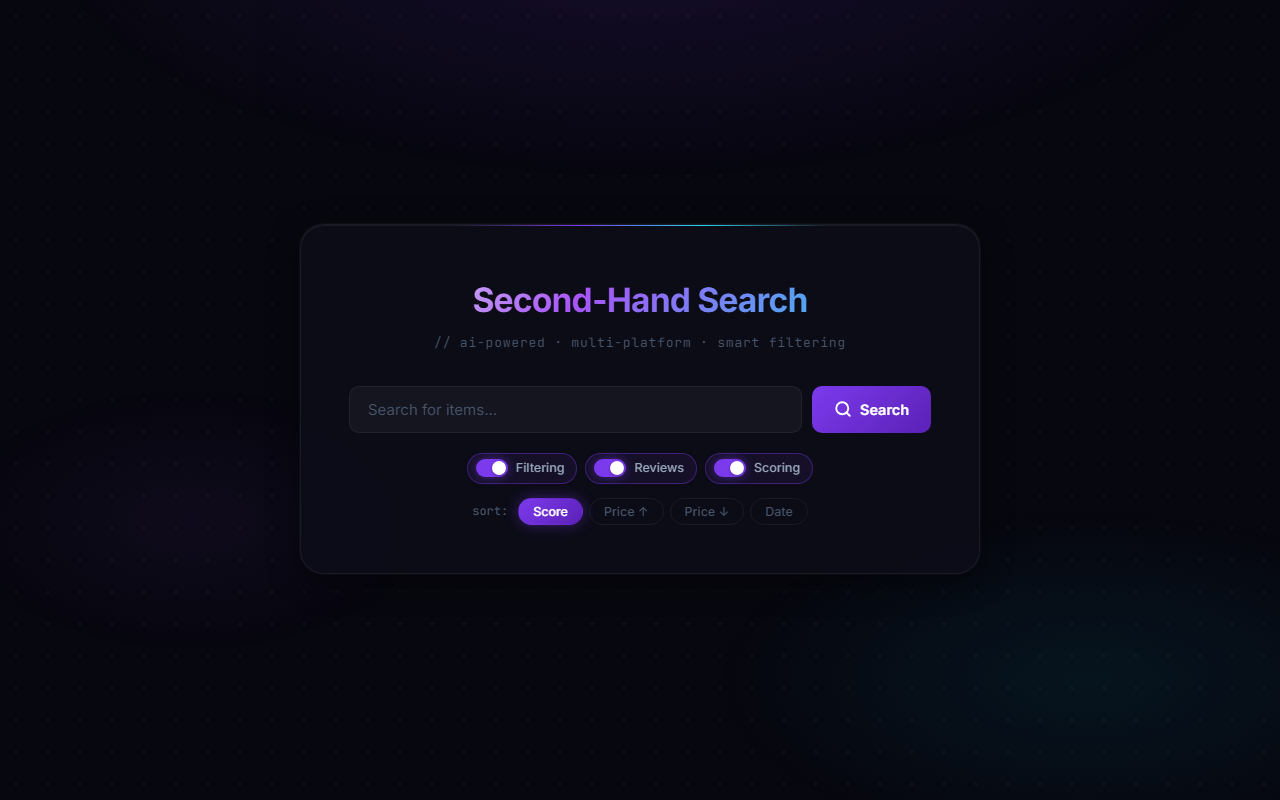
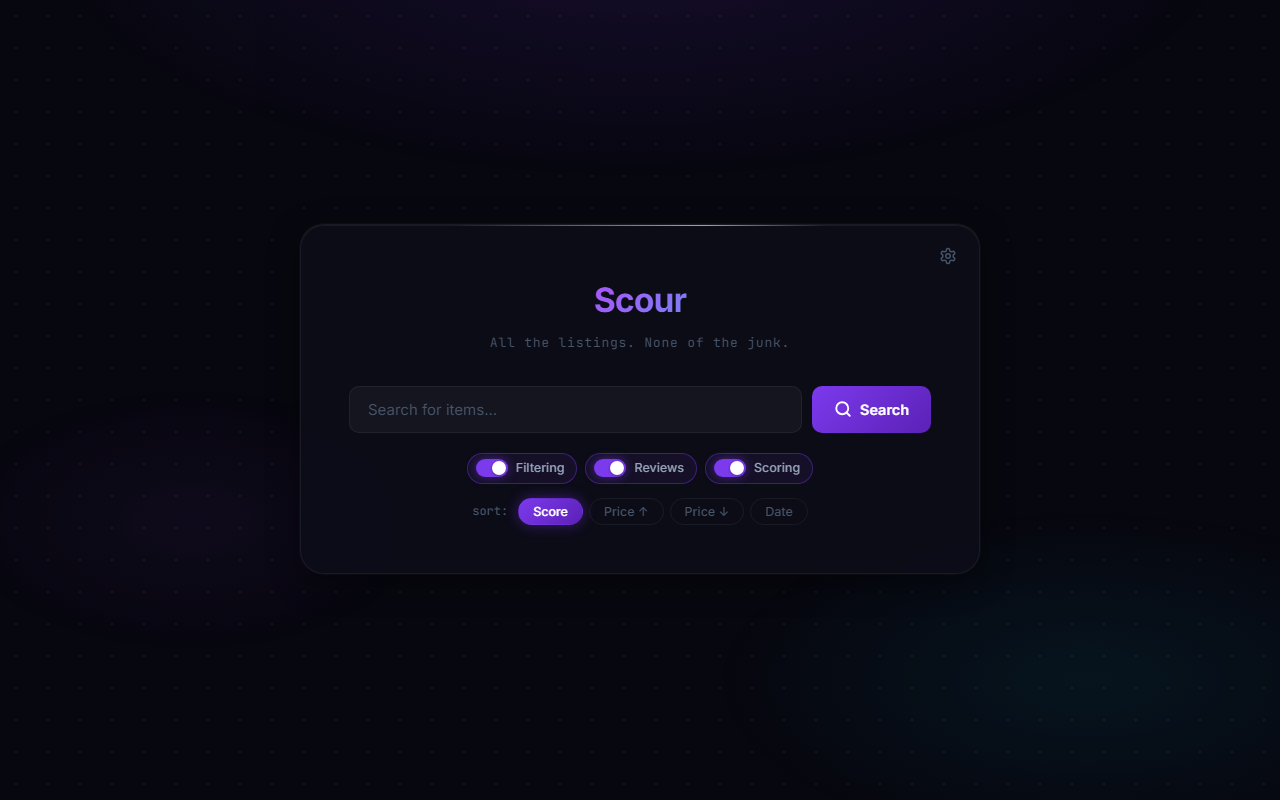
updated readme screenshots

Changed region(s): [[0.375, 0.3438, 0.625, 0.4375], [0.7188, 0.3125, 0.75, 0.3438]]

diff --git a/docs/take_screenshots.py b/docs/take_screenshots.py
@@ -13,6 +13,14 @@ with sync_playwright() as p:
     page.screenshot(path="docs/screenshot_landing.png")
     print("landing done")
 
+    # Settings screenshot
+    page.click("#config-btn")
+    page.wait_for_selector("#config-modal-body input", timeout=5000)
+    page.screenshot(path="docs/screenshot_settings.png")
+    print("settings done")
+    page.click("#config-modal-close")
+    page.wait_for_timeout(200)
+
     # Results screenshot — demo mode gives instant results
     page.goto(f"{BASE}?demo")
     page.wait_for_load_state("networkidle")

diff --git a/README.md b/README.md
@@ -8,6 +8,10 @@ Scrapes DBA, Vinted, and Tradera simultaneously, then uses an LLM to filter, sco
 
 ![Search results](docs/screenshot_results.png)
 
+![Settings](docs/screenshot_settings.png)
+
+API keys (Mistral, Gemini, SerpAPI) can be entered directly in the Settings panel — no config files needed.
+
 ## Installation
 
 ```bash